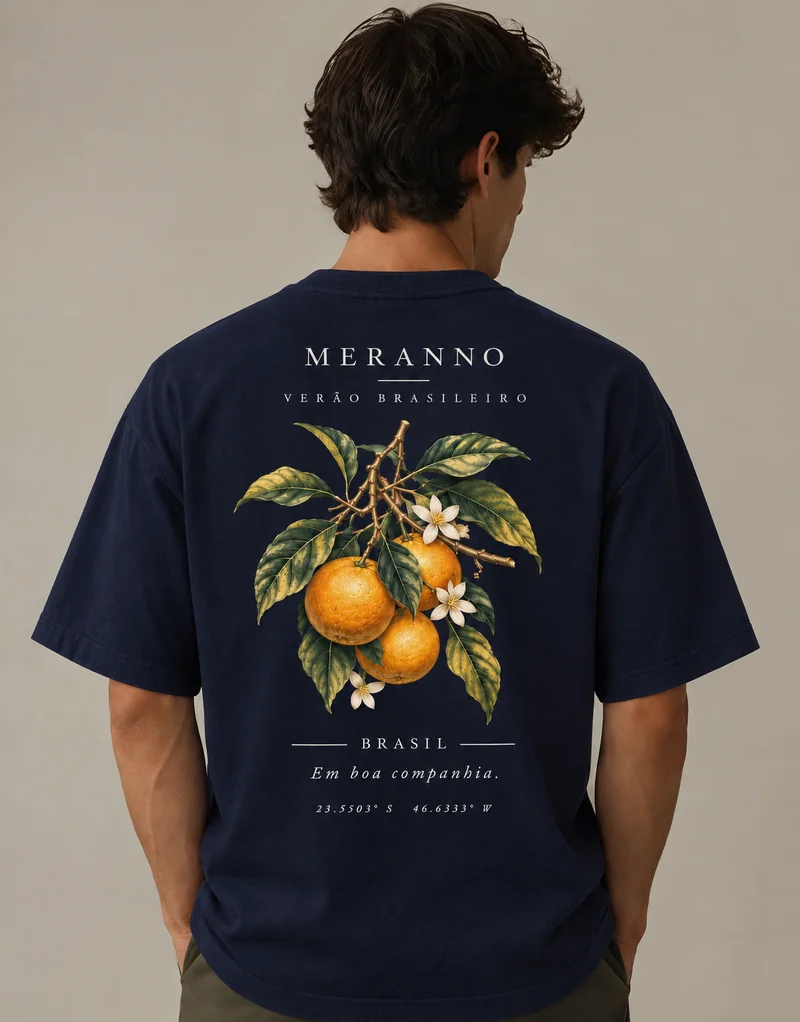
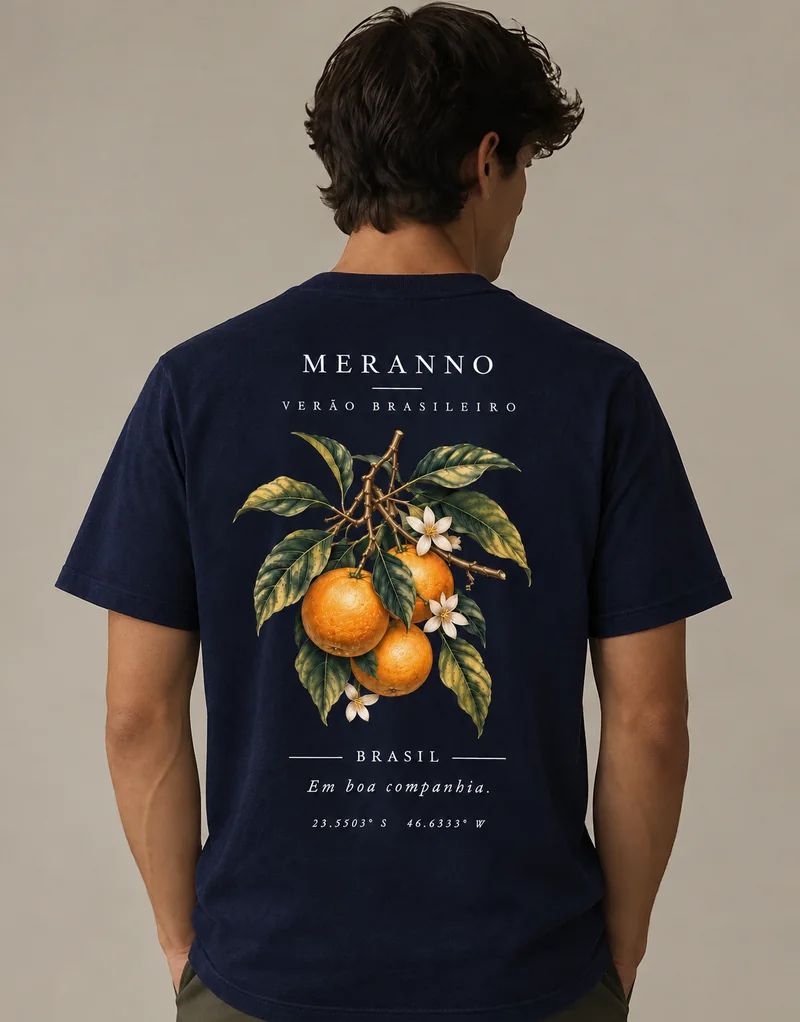
Provador nas proporções das fotos oficiais
- O pedido à IA trata as fotos oficiais como a própria peça regular e passa as
  proporções medidas nelas: ombro na ponta do ombro, manga curta e reta, costas
  com pouco mais da metade do comprimento.
- Manda descartar o contorno da roupa que a pessoa veste na foto (uma camiseta
  larga virava ombro caído no resultado).
- Tamanho e posição da estampa de costas de cada peça, medidos nas fotos oficiais.
- Fotos do modelo no provador refeitas com esse pedido, no M.

diff --git a/src/lib/tryon.ts b/src/lib/tryon.ts
@@ -1,3 +1,4 @@
+import { CORTE_REGULAR } from "./fit-description";
 import type { Pose } from "./pose";
 import type { ShirtViews } from "./products";
 
@@ -20,10 +21,14 @@ const VIEW_DESCRIPTIONS: Record<ViewKey, string> = {
   right: "a LATERAL DIREITA da camiseta (o lado direito de quem a veste)",
 };
 
-// With a size to show, the garment shots give the design only; the fit comes from the size section.
+// The garment shots are the official photos of the regular tee (2026-11-23): they give the design and the shape of the
+// piece (MODELAGEM DA PEÇA, always at the end); with a size to show, how it sits on the body comes from the size section.
+// The shirt the person has on is to be redrawn, not reshaped: left to itself the model keeps its outline.
 const preservePersonPrompt = (sized: boolean) => `EDITAR A FOTO DA PESSOA, não criar uma pessoa nova. A imagem 1 é a foto-base e deve ser preservada: mantenha exatamente a mesma pessoa, rosto, identidade, expressão, tom de pele, cabelo, pose, ângulo do corpo, mãos, proporções corporais, enquadramento, câmera, iluminação e fundo. Faça somente uma troca virtual de roupa sobre a pessoa. Não substitua a pessoa, não mude a pose, não gire nem espelhe o corpo e não faça uma nova sessão de fotos.
 
-As demais imagens mostram a camiseta do produto, sem ninguém vestindo, cada uma de um ângulo. Use-as exclusivamente como referência exata da peça: ${sized ? "estampa, gola, costuras, textura, material, cores, etiquetas e todos os detalhes visuais. O corte, o tamanho e o caimento no corpo NÃO vêm dessas fotos: seguem a seção TAMANHO E CAIMENTO abaixo." : "estampa, gola, costuras, textura, material, cores, etiquetas e todos os detalhes visuais. O corte NÃO vem dessas fotos (são mockups com ombro caído): a peça real é uma camiseta REGULAR, de corte clássico, com a costura do ombro na ponta do ombro, mangas retas até o meio do braço e corpo reto com folga leve."} Reproduza textos e logotipos exatamente como estão, letra por letra. Não invente logotipos, textos, estampas ou detalhes que não estejam nessas imagens.
+A parte de cima que a pessoa veste na imagem 1 sai por inteiro: NÃO aproveite o contorno, o volume, a largura, o ombro, as mangas nem o comprimento dela. Desenhe a nova camiseta do zero sobre o corpo, com o formato e as proporções da peça descritos abaixo, mesmo que a roupa original seja mais larga, mais justa, mais curta ou mais comprida. Onde a roupa original cobria e a nova não cobre (por exemplo o braço abaixo de uma manga mais curta), mostre o corpo da pessoa de forma natural, com o mesmo tom de pele e a mesma luz.
+
+As demais imagens mostram a camiseta do produto, sem ninguém vestindo, cada uma de um ângulo. Use-as exclusivamente como referência exata da peça: estampa, gola, costuras, textura, material, cores, etiquetas, todos os detalhes visuais e o formato da peça (veja MODELAGEM DA PEÇA abaixo).${sized ? " O tamanho e o caimento no corpo da pessoa NÃO vêm dessas fotos: seguem a seção TAMANHO E CAIMENTO abaixo." : ""} Reproduza textos e logotipos exatamente como estão, letra por letra. Não invente logotipos, textos, estampas ou detalhes que não estejam nessas imagens.
 
 Resultado: uma edição fotográfica realista da imagem 1, com a camiseta trocada e todo o restante praticamente idêntico. Preserve a anatomia e evite mãos extras, membros deformados, rosto alterado, pessoa diferente, roupa genérica, estampa inventada ou fundo modificado.`;
 
@@ -81,7 +86,7 @@ function scaleInstruction(keys: ViewKey[], printScale?: { front?: string; back?:
   return parts.length ? `\n\n${parts.join("\n")}` : "";
 }
 
-// `fit` is the size-and-fit paragraph (lib/fit-description.ts); without it the shirt keeps the catalog's fit.
+// `fit` is the size-and-fit paragraph (lib/fit-description.ts, which opens with the cut); without it, the cut alone.
 export function planTryOn(views: ShirtViews, pose: Pose, subject?: Subject, fit?: string, printScale?: { front?: string; back?: string }): TryOnPlan {
   let keys = wantedViews(pose).filter((key) => views[key]);
   // The garment's plain colour/cut/fabric still has to come from somewhere when the catalog has no front shot.
@@ -98,6 +103,6 @@ export function planTryOn(views: ShirtViews, pose: Pose, subject?: Subject, fit?
 
   return {
     views: keys,
-    prompt: `${preservePersonPrompt(!!fit)}\n\n${subject ? `${subjectInstruction({ ...subject, cropImage })}\n\n` : ""}${imageList}\n\n${orientationInstruction(pose, has, imageOf)}${scaleInstruction(keys, printScale)}${fit ? `\n\n${fit}` : ""}`,
+    prompt: `${preservePersonPrompt(!!fit)}\n\n${subject ? `${subjectInstruction({ ...subject, cropImage })}\n\n` : ""}${imageList}\n\n${orientationInstruction(pose, has, imageOf)}${scaleInstruction(keys, printScale)}\n\n${fit ?? CORTE_REGULAR}`,
   };
 }

diff --git a/src/lib/products.ts b/src/lib/products.ts
@@ -68,6 +68,11 @@ export const MATERIAL = "Camiseta regular unissex, 100% algodão penteado, malha
 export const PRECO_LANCAMENTO = 180;
 export const PRECO_PRE_VENDA = 160;
 
+// The back print's size and place, measured on the official photo (2026-11-23): width as a share of the shirt's back,
+// top and bottom as shares of its length from the collar down. Told to the try-on so the print keeps the photo's size
+// and place on any body (measured on the results: the Amore heart came out at 0.60-0.74 of the back, photo 0.66).
+const estampaCostas = (largura: number, de: number, ate: number) => `a arte ocupa cerca de ${largura}% da largura das costas da camiseta e vai de ${de}% a ${ate}% do comprimento dela, contando da gola para a barra, centralizada, exatamente como na foto de referência. É uma estampa GRANDE: não a diminua, não a afaste da gola e não deixe sobrar mais tecido liso em volta do que na foto.`;
+
 // Photos: the owners' official ones of 2026-11-23 (regular cut, studio white), re-framed so every shirt sits at the same
 // size and place (Amore White's back came later the same day).
 export const products: Product[] = [
@@ -81,6 +86,7 @@ export const products: Product[] = [
     image: "/imagens/merano-assets/produtos/amore-black-verso.jpg",
     gallery: ["/imagens/merano-assets/produtos/amore-black-verso.jpg", "/imagens/merano-assets/produtos/amore-black-frente.jpg"],
     views: { back: "/imagens/merano-assets/produtos/amore-black-verso.jpg", front: "/imagens/merano-assets/produtos/amore-black-frente.jpg" },
+    printScale: { back: estampaCostas(80, 20, 66) },
     tags: ["amore", "amor", "coracao", "aquarela", "manuscrito", "preto", "black"],
     category: "Camisetas",
     collection: "colecao-01",
@@ -102,6 +108,7 @@ export const products: Product[] = [
     image: "/imagens/merano-assets/produtos/amore-white-verso.jpg",
     gallery: ["/imagens/merano-assets/produtos/amore-white-verso.jpg", "/imagens/merano-assets/produtos/amore-white-frente.jpg"],
     views: { back: "/imagens/merano-assets/produtos/amore-white-verso.jpg", front: "/imagens/merano-assets/produtos/amore-white-frente.jpg" },
+    printScale: { back: estampaCostas(73, 19, 62) },
     tags: ["amore", "amor", "coracao", "aquarela", "manuscrito", "branco", "white"],
     category: "Camisetas",
     collection: "colecao-01",
@@ -123,6 +130,7 @@ export const products: Product[] = [
     image: "/imagens/merano-assets/produtos/riviera-verso.jpg",
     gallery: ["/imagens/merano-assets/produtos/riviera-verso.jpg", "/imagens/merano-assets/produtos/riviera-frente.jpg"],
     views: { back: "/imagens/merano-assets/produtos/riviera-verso.jpg", front: "/imagens/merano-assets/produtos/riviera-frente.jpg" },
+    printScale: { back: estampaCostas(82, 17, 77) },
     tags: ["riviera", "mar", "limao", "cafe", "verao", "italia", "branco"],
     category: "Camisetas",
     collection: "colecao-01",
@@ -144,6 +152,7 @@ export const products: Product[] = [
     image: "/imagens/merano-assets/produtos/arancia-verso.jpg",
     gallery: ["/imagens/merano-assets/produtos/arancia-verso.jpg", "/imagens/merano-assets/produtos/arancia-frente.jpg"],
     views: { back: "/imagens/merano-assets/produtos/arancia-verso.jpg", front: "/imagens/merano-assets/produtos/arancia-frente.jpg" },
+    printScale: { back: estampaCostas(67, 14, 76) },
     category: "Camisetas",
     tags: ["arancia", "laranja", "fruta", "botanico", "verao", "natureza", "azul"],
     collection: "colecao-01",
@@ -165,6 +174,7 @@ export const products: Product[] = [
     image: "/imagens/merano-assets/produtos/why-not-verso.jpg",
     gallery: ["/imagens/merano-assets/produtos/why-not-verso.jpg", "/imagens/merano-assets/produtos/why-not-frente.jpg"],
     views: { back: "/imagens/merano-assets/produtos/why-not-verso.jpg", front: "/imagens/merano-assets/produtos/why-not-frente.jpg" },
+    printScale: { back: estampaCostas(68, 19, 58) },
     category: "Camisetas",
     tags: ["frase", "vinho", "wine", "pintado-a-mao", "preto"],
     collection: "colecao-01",

diff --git a/src/lib/fit-description.ts b/src/lib/fit-description.ts
@@ -4,8 +4,12 @@ import type { SizeRow } from "./products";
 
 const SIZES = ["P", "M", "G"];
 
-// The cut itself, said in every try-on: the garment shots are mockups of an older dropped-shoulder cut.
-export const CORTE_REGULAR = "MODELAGEM DA PEÇA: camiseta REGULAR, de corte clássico e reto (NÃO é oversized, NÃO é boxy): a costura do ombro fica na ponta do ombro, as mangas são retas e terminam no meio do braço, e o corpo cai reto, com folga leve nas laterais. As fotos de referência da camiseta são mockups com ombro caído e corpo largo: copie delas só a cor, a estampa, a assinatura, a gola e o tecido, NUNCA o corte nem o caimento.";
+// The cut itself, said in every try-on. Since 2026-11-23 the garment shots are the owners' official photos of this
+// same regular tee (before, mockups of an older dropped-shoulder cut the model had to be told to ignore).
+// The proportions are measured on those photos (seen from the back, all five alike): body width 0.56-0.60 of the
+// length from collar to hem, sleeves ending at 0.44-0.50 of it. On a person the image model kept the silhouette of the
+// shirt they had on (a loose tee came out with dropped shoulders and elbow-length sleeves), hence the numbers.
+export const CORTE_REGULAR = "MODELAGEM DA PEÇA: camiseta REGULAR, de corte clássico e reto (NÃO é oversized, NÃO é boxy, NÃO tem ombro caído). As fotos de referência mostram esta mesma peça, nesse corte: siga delas o formato da camiseta (gola, ombro, mangas e corpo), além da cor, da estampa, da assinatura e do tecido. PROPORÇÕES DA PEÇA, as mesmas das fotos de referência: a costura do ombro fica na ponta do ombro da pessoa (num tamanho grande para ela, no máximo poucos centímetros além), nunca no ombro caído de uma camiseta oversized; as mangas são curtas e retas, cobrem só a metade de cima do braço e terminam bem acima do cotovelo, com a abertura a poucos centímetros do braço (nada de manga larga, comprida ou em sino); o corpo cai reto e é mais comprido do que largo: de costas, a largura da camiseta é pouco mais da metade do comprimento dela (cerca de 0,58 vez a distância da gola até a barra; uma camiseta quase tão larga quanto comprida está ERRADA). As laterais descem retas, só um pouco afastadas do tronco, sem volume sobrando, e abaixo das mangas os braços aparecem ao lado do corpo, com o tecido sem cobri-los.";
 
 // Without measurements, how each size sits next to the brand's usual regular fit (M on an average body).
 const RELATIVE: Record<number, string> = {

diff --git a/PENDENCIAS-LEIA-ME.md b/PENDENCIAS-LEIA-ME.md
@@ -81,7 +81,7 @@ Sem os itens 3 e 4 o site funciona assim mesmo: o frete aparece como "valores de
 - **Categorias virou Coleções** (`/colecoes`; o endereço antigo redireciona). No menu: Coleções, Meranno Fit e Sobre nós, nessa ordem.
 - **Voltar para a página inicial**: no topo do menu (fora da inicial) e, no celular, uma seta discreta "Voltar para o início" logo abaixo da barra (a barra do celular não tem espaço para mais um botão).
 - **Cadeado** (Coming soon, pré-venda e a abertura do convite): bordô forte e liso (`#39000F`, sem a textura e a luz que apagavam a cor), dourado mais vivo no cadeado, no botão e no nome, texto do botão em bordô quase preto, e as barras do Safari na mesma cor.
-- **Provador** (noite): o modelo do lookbook foi vestido com as cinco camisetas pelo próprio provador do site (cerca de US$ 0,23 no OpenRouter, contando uma geração que se perdeu na conexão) e alinhado à foto original. No passo 3 do topo, metade original e metade Amore Black; no "o seu resultado aparece aqui", as cinco passam uma a uma com o nome, ou fica a que a pessoa escolheu. O passo 2 continua com a foto original.
+- **Provador** (noite): o modelo do lookbook foi vestido com as cinco camisetas pelo próprio provador do site (cerca de US$ 0,23 no OpenRouter, contando uma geração que se perdeu na conexão) e alinhado à foto original. No passo 3 do topo, metade original e metade Amore Black; no "o seu resultado aparece aqui", as cinco passam uma a uma com o nome, ou fica a que a pessoa escolheu. O passo 2 continua com a foto original. O pedido à IA deixou de chamar as fotos de referência de "mockups com ombro caído": agora diz que são a própria peça regular, com as proporções medidas nas fotos oficiais (ombro na ponta do ombro, manga curta e reta, largura de costas pouco mais da metade do comprimento) e o tamanho e a posição de cada estampa de costas (`printScale` em `src/lib/products.ts`). Também manda descartar o contorno da roupa que a pessoa veste na foto, que antes "vazava" para o resultado (uma camiseta larga virava ombro caído). O tamanho segue a tabela da Remix (P 50/70, M 53/73, G 56/76 cm de tórax/comprimento; conferida no site da Remix em 23/11). As fotos do modelo no provador foram refeitas com esse pedido, no M.
 
 **Falta (com vocês):**
 | Item | O que preciso |
